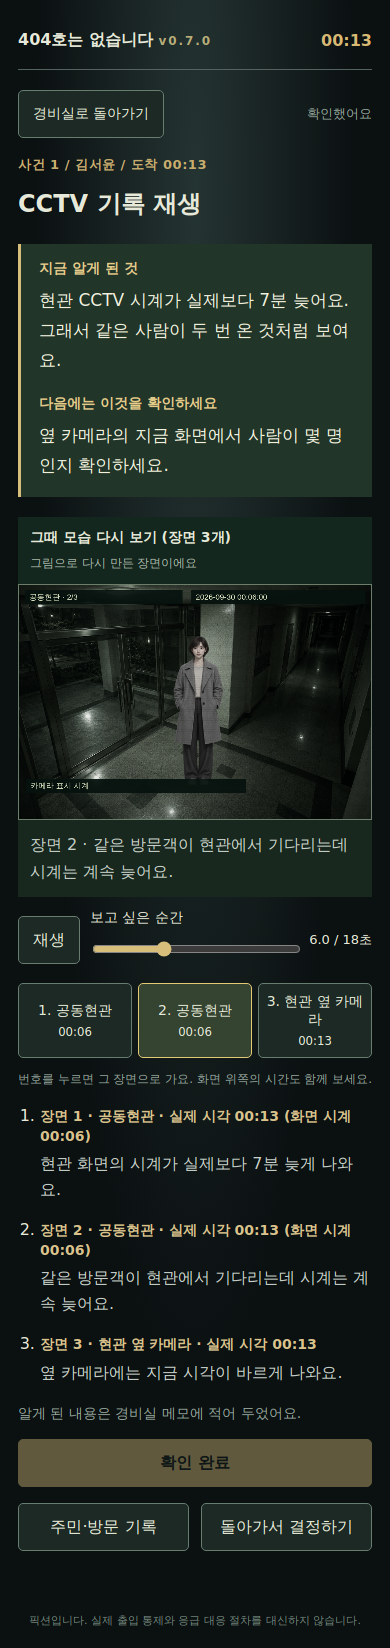
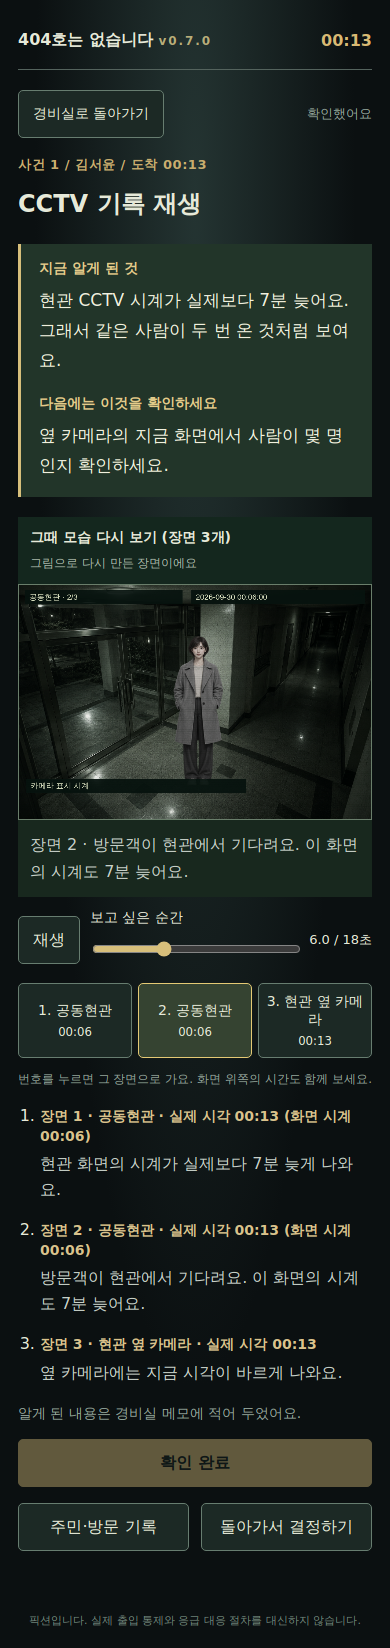
v0.7.0: reviewed plain-language text, placeholder fill, docs
- apply 76 copy-review fixes (answer leaks in CCTV notes, wrong record
  labels, awkward call lines); A098 walk-in wording
- fillDeep(): every {name}/{unit} filled across the whole case
- all-cases asserts no raw placeholder is ever shown
- CHANGELOG-0.7.0, CODE_GUIDE, WRITING_GUIDE, CCTV angle image spec

Claude-Session: https://claude.ai/code/session_01FGAUvVNs8BW1MSHvwbK7z4

diff --git a/404호는 없습니다/room404/dist/game.js b/404호는 없습니다/room404/dist/game.js
@@ -8,7 +8,9 @@ function clearReplay(){replayGeneration++;if(replayCleanup){replayCleanup();repl
 function show(screen){if(screen!=='investigation'){clearReplay();stopVoice()}['home','game','investigation','feedback','result'].forEach(id=>$(id).hidden=id!==screen);window.scrollTo(0,0)}
 function storageGet(key){try{return JSON.parse(localStorage.getItem(key))}catch{return null}}
 function save(){try{localStorage.setItem(ACTIVE,JSON.stringify(run))}catch{$('storageNotice').hidden=false}}
-function current(){const p=run.cases[run.index],original=visitors.find(v=>v.id===p.visitor),a=anomalies.find(a=>a.id===p.anomaly),pack=scenarios.find(s=>s.id===a.id);const v={...original,unit:pack.unitOverride||original.unit,role:pack.role};v.claim=fill(pack.claim,v);return {v,a,pack}}
+// Returns the case with every {name}/{unit} placeholder filled, so no text field can show a raw placeholder.
+function current(){const p=run.cases[run.index],original=visitors.find(v=>v.id===p.visitor),a=anomalies.find(a=>a.id===p.anomaly),raw=scenarios.find(s=>s.id===a.id);const v={...original,unit:raw.unitOverride||original.unit,role:raw.role};const pack=fillDeep(raw,v);v.claim=pack.claim;return {v,a,pack}}
+function fillDeep(x,v){return typeof x==='string'?fill(x,v):Array.isArray(x)?x.map(y=>fillDeep(y,v)):x&&typeof x==='object'?Object.fromEntries(Object.entries(x).map(([k,y])=>[k,fillDeep(y,v)])):x}
 function fill(s,v){return String(s).replaceAll('{name}',v.name).replaceAll('{unit}',v.unit)}
 function sourceTime(minutes=0){return shiftedTime(TIMES[run.index],minutes)}
 function log(title,text){const p=document.createElement('p'),b=document.createElement('strong');b.textContent=title+' — ';p.append(b,document.createTextNode(text));$('evidence').append(p)}

diff --git a/404호는 없습니다/docs/CODE_GUIDE.md b/404호는 없습니다/docs/CODE_GUIDE.md
@@ -2,7 +2,7 @@
 
 코드 구조를 섹션별로 정리합니다. **코드를 바꾸면 해당 섹션도 함께 고칩니다.**
 
-- 기준 버전: v0.6.1 (2026-09-30)
+- 기준 버전: v0.7.0 (2026-09-30)
 - 코드 위치: `room404/`
 - 빌드 과정 없이 `room404/dist/` 폴더를 그대로 웹 서버에 올리면 실행됩니다.
 
@@ -18,6 +18,7 @@ room404/
 │  ├─ game.js             화면 제어·조사 도구·저장·결과 카드
 │  ├─ engine.js           규칙: 사건 선택·판정·결말·저장 검증
 │  ├─ replay.js           CCTV 재현 (canvas 애니메이션)
+│  ├─ voice.js            전화 목소리 (기기 내장 한국어 음성)
 │  ├─ sw.js               오프라인 캐시 (서비스워커)
 │  ├─ manifest.webmanifest PWA 설정
 │  ├─ data/               게임 데이터 (JSON)
@@ -72,11 +73,12 @@ home ──시작──▶ game ◀──돌아가기── investigation
 | 부분 | 설명 |
 |---|---|
 | `boot()` | JSON 3개를 불러와 개수(각 100개)를 검증하고, 저장된 근무를 복원합니다. 실패하면 "다시 불러오기" 버튼을 보여 줍니다. |
-| `current()` | 지금 사건의 방문객(`v`), 이상 징후(`a`), 시나리오(`pack`)를 합칩니다. `pack.unitOverride`가 있으면 방문 호수를 덮어씁니다. |
+| `current()` | 지금 사건의 방문객(`v`), 이상 징후(`a`), 시나리오(`pack`)를 합칩니다. `pack.unitOverride`가 있으면 방문 호수를 덮어씁니다. `fillDeep()`이 사건 전체의 `{name}`, `{unit}`을 한 번에 채웁니다. |
 | `render()` | `run.screen`에 따라 화면을 그립니다. |
 | `evidence()`, `timeline()` | 경비실 화면의 "다음 할 일"과 사건 타임라인 |
 | `inspect(tool)`, `verify()`, `renderTool()` | 조사 화면을 엽니다. **열기만 해서는 확인 처리되지 않습니다.** `readTool()`(아래쪽 주 버튼)을 눌러야 `run.seen`에 기록됩니다. |
-| `documentView()`, `transcript()` | 기록 비교 화면과 통화 기록 화면 |
+| `documentView()`, `mountBooks()` | 관리실 기록부. 펼치기 전에는 표지를 보여 주고, 펼치면 4장을 넘겨 봅니다: ① 오늘 밤 방문 기록(`bookEntries()`가 날짜와 사건으로 앞서 온 3명을 고정 생성) ② 이 사람이 말한 것 ③ 관리실 기록 ④ 나란히 비교. 버튼, 밀기(40px 이상), 좌우 화살표로 넘깁니다. |
+| `transcript()`, `callLines()`, `playCall()` | 통화 화면. `call.dialogue`(첫 통화)나 `call.verifyDialogue`(한 번 더 확인)를 대본으로 보여 주고, 버튼을 누르면 `voice.js`로 읽습니다. 지금 읽는 줄에 `.speaking`이 붙습니다. |
 | `clueFor(tool)` | 도구별로 알게 된 내용. 사건의 핵심 채널(`a.channel`)이면 `plain.what`을 보여 줍니다. |
 | `share()` | 1080×1350 결과 카드를 canvas로 만듭니다. 공유가 되면 OS 공유 창을, 안 되면 다운로드 링크를 띄웁니다. |
 | `offline()` | 서비스워커를 등록합니다. Capacitor 앱 안에서는 건너뜁니다(이미 대응됨). |
@@ -84,6 +86,14 @@ home ──시작──▶ game ◀──돌아가기── investigation
 - **저장 키**: `404_active_v2`는 진행 중인 근무, `404_last_run`은 마지막 결과입니다. 저장에 실패하면 경고 문구를 띄웁니다.
 - **도구 이름**: 내부 키 `CCTV`, `명부`, `통화`, `재확인`은 유지하고, 화면 이름만 `TOOL_NAMES`로 바꿉니다.
 - **초상**: `person(v)`는 `assets/visitors.png`(4명이 가로로 배치된 시트)에서 `(번호-1) % 4`번째 인물을 잘라 씁니다. 방문객 100명이 4가지 그림을 돌려 씁니다.
+
+## 4-1. 전화 목소리 (voice.js)
+
+- `playDialogue(lines, onLine)`: `[{who, text}]`를 차례로 읽습니다. 줄 사이에 0.25초 쉽니다. `stopVoice()`로 멈춥니다. 조사 화면을 떠나면 `show()`가 자동으로 멈춥니다.
+- 음성 엔진: 웹은 `speechSynthesis`(ko-KR 음성 우선), 앱은 Capacitor `TextToSpeech` 플러그인(`@capacitor-community/text-to-speech`)입니다. Android 웹뷰에는 speechSynthesis가 없으므로 **앱으로 만들 때 이 플러그인을 꼭 설치**해야 합니다.
+- `SPEAKERS`: 말하는 사람별 목소리 높이(pitch)와 빠르기(rate)입니다. 경비원, 주민, 관리실, 방문객, 가족, 회사 직원, 자동 응답, 모르는 사람이 있습니다. 대본의 `who`는 이 목록 안에서만 씁니다.
+- 소리 켜기/끄기는 `localStorage['404_sound']`에 저장합니다.
+- 나중에 녹음 파일로 바꾸려면 `speakLine()`만 오디오 재생으로 바꾸면 됩니다. 대본 구조는 그대로 씁니다.
 
 ## 5. CCTV 재현 (replay.js)
 
@@ -112,11 +122,13 @@ home ──시작──▶ game ◀──돌아가기── investigation
 |---|---|---|
 | `visitors.json` | 100 | `id`(V001~), `name`, `unit`(호수), `role`, `claim` |
 | `anomalies.json` | 100 | **정답의 기준**. `safe`(들여보내도 되는지), `channel`(핵심 단서가 있는 도구), `category` |
-| `scenarios.json` | 100 | 사건별 장면 3개, 서류(`document`), 통화(`call`), 쉬운 설명(`plain.what/check/confirmed/decision`), `recordCode` |
+| `scenarios.json` | 100 | 사건별 장면 3개, 서류(`document`), 통화(`call` — `dialogue`, `verifyDialogue` 대본 포함), 쉬운 설명(`plain.what/check/confirmed/decision`), `recordCode` |
 | `endings.json` | 30 | 결말 설계 목록. 실제 구현은 6개 (`implemented_in_prototype`) |
 
 - `scenarios.json`의 `safe`, `channel`, `clue`, `verification`은 `anomalies.json`과 같아야 합니다. 테스트(`scenarios.test.mjs`)가 검사합니다.
-- 문구의 `{name}`, `{unit}`은 `fill()`이 방문객 정보로 바꿉니다.
+- 문구의 `{name}`, `{unit}`은 `fillDeep()`이 방문객 정보로 바꿉니다.
+- **화면 문구를 고칠 때는 `docs/WRITING_GUIDE.md`를 따릅니다.** 해요체, 짧은 문장, 어려운 말 금지, 조사 전 정답 노출 금지가 핵심입니다. `call.reply`, `plain.confirmed`, `verificationDetail`은 항상 같은 문장이어야 합니다(테스트가 검사).
+- 화면에 보이지 않는 칸: `clue`, `verification`(원래 단서), `question`(이전 버전의 질문), `plain.decision`(현재 미사용)
 
 ## 7. 그림 (dist/assets)
 
@@ -133,7 +145,7 @@ home ──시작──▶ game ◀──돌아가기── investigation
 ## 8. 오프라인 (sw.js)
 
 - 설치할 때 `FILES` 목록 전체를 캐시합니다. 이후에는 캐시를 먼저 쓰고, 없으면 네트워크를 씁니다.
-- **파일을 추가하거나 수정하면 `CACHE` 이름(`room404-v0.6.1`)을 올려야** 사용자에게 새 파일이 전달됩니다. 새 파일은 `FILES`에도 추가합니다.
+- **파일을 추가하거나 수정하면 `CACHE` 이름(`room404-v0.7.0`)을 올려야** 사용자에게 새 파일이 전달됩니다. 새 파일은 `FILES`에도 추가합니다.
 - 앱(Capacitor) 안에서는 서비스워커를 쓰지 않습니다.
 
 ## 9. 테스트 (tests)
@@ -149,7 +161,8 @@ npm run test:all-cases   # 사건 100개 × 장면 3개 전수 검사
 - `test:ui`를 먼저 실행해야 합니다. `@sparticuz/chromium`에서 브라우저를 `/tmp/room404-chromium`으로 풀기 때문입니다. 다른 OS에서는 `CHROMIUM_EXECUTABLE`을 지정합니다.
 - 두 브라우저 검사는 `test-artifacts/`의 결과 JSON과 스크린샷을 덮어씁니다.
 - 스크린샷의 한글이 네모로 보이면 한국어 글꼴을 설치합니다(예: `fonts-noto-cjk`).
-- 마지막 결과(2026-09-30): 11/11, 9/9, 100/100 모두 통과
+- 브라우저 검사는 `speechSynthesis`를 가짜로 바꿔 끼워 통화 음성을 검사합니다(읽은 줄 수, ko-KR, 사람마다 다른 높이, 소리 끄기).
+- 마지막 결과(2026-09-30, v0.7.0): 11/11, 9/9, 100/100 모두 통과
 
 ## 10. 주의사항
 
@@ -165,11 +178,15 @@ npm run test:all-cases   # 사건 100개 × 장면 3개 전수 검사
 | 높음 | Android 뒤로가기 처리 | 앱에서 뒤로가기를 누르면 바로 종료됩니다. 조사 화면에서는 경비실로 돌아가야 합니다. |
 | 높음 | 결과 이미지 저장을 앱 방식으로 | Android 웹뷰에서는 파일 공유와 blob 다운로드가 동작하지 않을 수 있습니다. Capacitor Share/Filesystem을 씁니다. |
 | 중간 | 저장을 Capacitor Preferences로 이중화 | 웹뷰의 localStorage는 OS가 정리할 때 지워질 수 있습니다. |
+| 높음 | Android 앱에 TextToSpeech 플러그인 설치 | 없으면 앱에서 전화 목소리가 나오지 않습니다. |
+| 높음 | CCTV 여러 각도 보기 | 사용자가 배경 그림을 만드는 중입니다. 규격은 `docs/CCTV_ANGLE_IMAGE_SPEC.md` |
 | 중간 | 걷기 모션을 다른 방문객으로 확대 | 지금은 V001만 적용되어 있습니다. |
-| 낮음 | 경비실 첫 안내 문구 말투 통일 | "확인하십시오"만 딱딱한 말투로 남아 있습니다. |
+| 중간 | 녹음 목소리로 교체 | 지금은 기기 내장 음성입니다. 대본 구조는 그대로 두고 오디오 파일로 바꿀 수 있습니다. |
 | 낮음 | 결말 24개 추가 구현 | `endings.json` 30개 중 6개만 구현되어 있습니다. |
 
 ### 완료한 개선
+
+- v0.7.0: 모든 대사를 쉬운 말로 다시 썼고, 전화 목소리와 넘기는 기록부를 추가했습니다. 경비실 첫 안내 말투도 통일했습니다.
 
 - v0.6.1: 조사 도구 버튼의 스크린리더 이름을 화면 이름과 일치시켰습니다.
 - v0.6.1: `all-cases` 테스트의 브라우저 경로 하드코딩을 제거했습니다.

diff --git a/404호는 없습니다/docs/WRITING_GUIDE.md b/404호는 없습니다/docs/WRITING_GUIDE.md
@@ -1,0 +1,79 @@
+# 404호는 없습니다 — 대사 다시 쓰기 지침
+
+게임: 아파트 야간 경비원이 밤에 찾아온 방문객을 들여보낼지 정하는 한국어 추리 게임.
+플레이어는 ① CCTV 보기 ② 주민·방문 기록 보기 ③ 집에 전화하기 ④ 한 번 더 확인하기를 한 뒤
+"들여보내기" 또는 "문 열지 않기"를 고른다.
+
+목표: **초등학교 고학년도 한 번 읽고 바로 이해할 수 있는 말**. 절대 어려우면 안 된다.
+
+## 문장 규칙
+1. 해요체만 쓴다. (예: 들어갔어요, 확인하세요). 경비원 대사도 해요체.
+2. 한 문장에 한 가지 사실. 한 문장은 되도록 30자 이내, 최대 40자.
+3. 누가 무엇을 했는지 분명히 쓴다. 주어를 빼서 헷갈리게 하지 않는다.
+4. 쉬운 일상어만. 아래 말은 쓰지 않는다(괄호 안처럼 바꾼다):
+   승인(허락), 대조(비교해 보기), 원본(관리실에 있는 기록), 세대(집), 등록 세대(그 집),
+   신원(누구인지), 진위(진짜인지), 확정(확실히 알기), 표시 정보(화면에 나온 글자),
+   제출(보여 준), 발급(새로 만들어 줌), 반송(돌려보냄), 인원(사람 수), 동일(같은),
+   상이(다른), 해당(그), 미확인(아직 확인 못 함), 무단(허락 없이), 경유(거쳐서), 위조(가짜로 만든),
+   불일치(서로 다름), 방문 대상(가려는 집), 연락처(전화번호).
+5. 명사로 끝나는 메모체(예: "사람 확인", "보여 줌하고")를 쓰지 않는다. 모두 완전한 문장.
+6. 조사·띄어쓰기를 정확히. "돌려보냄된", "보여 줌한" 같은 틀린 말은 반드시 고친다.
+7. 시각은 "10분 전", "지금"처럼 상대적으로 쓴다. 숫자 시각(00:13 등)은 쓰지 않는다. 화면이 따로 보여 준다.
+8. 느낌표, 영어, 한자, 줄임말을 쓰지 않는다. (CCTV는 그대로 쓴다.)
+9. {name}(방문객 이름), {unit}(가려는 호수)은 그대로 써도 된다. 게임이 채운다. 중괄호 모양 그대로 둔다.
+
+## 흐름 규칙 (가장 중요)
+- 무엇이 이상한지 → 왜 이상한지 → 무엇을 더 확인할지, 이 순서로 이어지게 쓴다.
+- **정답을 미리 말하지 않는다.** 아래 '보이는 때'를 지킨다.
+- 사건의 뜻, 정답(safe), 핵심 단서가 있는 도구(channel)는 절대 바꾸지 않는다. 표현만 쉽게 바꾸고, 필요하면 구체적으로 풀어 쓴다.
+- 들여보내도 되는 사건(safe=true)은 "처음엔 이상해 보이지만 확인하면 괜찮은 이유"가 분명해야 한다.
+- 들여보내면 안 되는 사건(safe=false)은 "확인해도 풀리지 않는 이상한 점"이 분명해야 한다.
+
+## 필드별 뜻과 보이는 때
+
+| 필드 | 보이는 때 | 쓰는 법 |
+|---|---|---|
+| claim | 처음부터 (방문객이 인터폰에 하는 말) | 방문객의 자연스러운 한두 문장. 사건마다 조금씩 다르게. 이상한 점이나 정답을 말하지 않는다. role(방문 구분)과 맞게. |
+| scenes[i].note | CCTV를 연 뒤 | 그 장면에 보이는 것 한 문장. 장면의 location/action/mode/prop와 맞게. 6자 이상. |
+| document.field | 기록을 연 뒤 | 비교하는 항목 이름. 짧은 명사구 (예: "가려는 집", "택배 번호", "출입 카드"). |
+| document.left | 기록을 연 뒤 | 방문객이 말하거나 보여 준 내용. 한 문장. |
+| document.right | 기록을 연 뒤 | 관리실 기록에 적힌 내용. 한 문장. left와 달라야 한다. |
+| document.source | 기록을 연 뒤 | 관리실 기록의 이름 (예: "관리실 방문 기록", "택배 보관 기록"). 짧게. |
+| call.source | 전화를 연 뒤 | 어디로 전화했는지 (예: "관리실에 적힌 그 집 번호"). |
+| call.state | 전화를 연 뒤 | 통화 상태 한마디 (예: "연결됐어요", "답을 기다려요", "말이 이상해요"). 짧게. |
+| call.line | 전화를 연 뒤 | 통화에서 들은 내용 요약 한 문장. |
+| call.detail | 전화를 연 뒤 | 경비원 메모 한 문장. 다음에 무엇을 볼지. |
+| call.dialogue | 전화를 연 뒤 (**음성으로 읽힘**) | 첫 통화 대화 3~5줄. [{"who":..., "text":...}]. 첫 줄은 경비원. |
+| call.verifySource | 한 번 더 확인할 때 | 다시 확인한 곳 (예: "다른 카메라와 그 집 주민"). |
+| call.reply | 한 번 더 확인한 뒤 | plain.confirmed와 같은 문장으로 둔다. |
+| call.verifyDialogue | 한 번 더 확인할 때 (**음성으로 읽힘**) | 확인 통화 2~4줄. 마지막 줄에서 plain.confirmed 내용이 드러난다. |
+| plain.what | 핵심 도구를 확인한 뒤 | 무엇이 이상한지 1~2문장. |
+| plain.check | 핵심 도구를 확인한 뒤 | 다음에 무엇을 확인할지 1문장. "~하세요"로 끝. |
+| plain.confirmed | 한 번 더 확인한 뒤 | 확인해서 알게 된 사실 1~2문장. 판단 근거가 분명하게. |
+| plain.decision | 결과 화면용 | safe=true면 "들여보내도 돼요.", false면 "문을 열어 주면 안 돼요."에 이유 한마디를 붙인다. 예: "문을 열어 주면 안 돼요. 먼저 들어간 사람이 아직 안에 있어요." |
+
+### 통화 대사 규칙 (음성)
+- who는 다음 중 하나만: "경비원", "주민", "관리실", "방문객", "가족", "회사 직원", "자동 응답", "모르는 사람".
+- 소리 내어 읽기 좋게: 괄호, 기호(·, /, →), 숫자 나열을 넣지 않는다. 번호는 "일 층"처럼 쓰지 말고 그냥 "101호"처럼 써도 된다.
+- 한 줄은 한두 문장. 실제 전화처럼 자연스럽게.
+- 첫 통화(dialogue)는 핵심 단서가 전화(channel=통화)인 사건이면 그 이상한 점이 대화에 드러나야 한다. 그 외 사건에서는 결론 없이 "확인해 볼게요" 정도로 끝난다(정답 금지).
+- 확인 통화(verifyDialogue)는 plain.confirmed의 내용을 대화로 보여 준다.
+
+## 출력 형식
+입력 파일의 각 사건에 대해 아래 JSON 객체를 만든다. **이 필드만** 넣는다. 다른 필드(id 제외)는 넣지 않는다.
+
+```json
+{
+  "id": "A001",
+  "claim": "...",
+  "scenes": [{"note": "..."}, {"note": "..."}, {"note": "..."}],
+  "document": {"field": "...", "left": "...", "right": "...", "source": "..."},
+  "call": {"source": "...", "state": "...", "line": "...", "detail": "...", "verifySource": "...", "reply": "...",
+           "dialogue": [{"who": "경비원", "text": "..."}],
+           "verifyDialogue": [{"who": "경비원", "text": "..."}]},
+  "plain": {"what": "...", "check": "...", "confirmed": "...", "decision": "..."}
+}
+```
+- 입력의 document에 "claim" 키가 있으면 출력 document에도 "claim"을 넣는다(방문객이 한 말과 같게, 쉬운 말로).
+- call.reply는 plain.confirmed와 글자까지 같게.
+- 결과는 JSON 배열 하나로 파일에 저장한다. UTF-8, 한글 그대로(유니코드 이스케이프 금지).

diff --git a/404호는 없습니다/room404/CHANGELOG-0.7.0.md b/404호는 없습니다/room404/CHANGELOG-0.7.0.md
@@ -1,0 +1,35 @@
+# 0.7.0 — 쉬운 대사, 전화 목소리, 넘기는 기록부
+
+2026-09-30
+
+## 모든 대사를 쉬운 말로 다시 씀
+- 100개 사건의 화면 문구를 모두 다시 썼다. 방문객의 말, CCTV 장면 설명, 기록부, 통화, "지금 알게 된 것", "다음에는 이것을 확인하세요", 확인 결과가 대상이다.
+- 기준은 해요체, 한 문장에 한 가지 사실, 되도록 30자 안팎이다. "승인·대조·원본·세대·신원·진위" 같은 어려운 말은 쓰지 않는다. 자세한 기준은 `docs/WRITING_GUIDE.md`에 있다.
+- 틀린 말을 고쳤다(예: "돌려보냄된", "보여 줌하고"). 영어 약호(R-0000, D-202 등)는 쉬운 말로 풀었다.
+- 조사 전에 답이 드러나지 않게 했다. 방문객의 말과 첫 통화, CCTV 설명에 결론이 보이지 않는지 따로 검토해 고쳤다(76곳).
+- 정답(`safe`), 핵심 도구(`channel`), 원래 단서(`clue`, `verification`), 장면 동작은 바꾸지 않았다.
+- 화면 문구도 쉽게 바꿨다. 예: "판단이 맞았습니다" → "잘 판단했어요. 맞았어요", "정답 8건 · 위험 허용" → "8명 중 8명 맞힘 · 위험한 사람을 들여보냄", "오프라인 준비 완료" → "인터넷 없이도 할 수 있어요".
+- CCTV 장소 이름을 바꿨다. "승강기"는 "엘리베이터", "계단실"은 "계단", "현관 보조 카메라"는 "현관 옆 카메라".
+
+## 전화: 실제 목소리로 듣기
+- 각 사건에 실제 통화 대본을 넣었다. 첫 통화(`call.dialogue`)는 3~5줄, 한 번 더 확인하는 통화(`call.verifyDialogue`)는 2~4줄이다.
+- '전화 걸기'를 누르면 휴대폰에 들어 있는 한국어 음성으로 통화를 읽어 준다(`voice.js`). 지금 말하는 줄은 화면에 표시된다.
+- 경비원, 주민, 관리실, 모르는 사람 등은 목소리 높이와 빠르기를 다르게 했다.
+- '통화 다시 듣기', '멈추기', '소리 켜짐/꺼짐' 버튼이 있다. 소리 설정은 기기에 저장된다(`404_sound`).
+- 웹에서는 speechSynthesis를 쓴다. 앱(Capacitor)에서는 TextToSpeech 플러그인을 설치하면 그것을 쓴다. 음성이 없는 기기에서는 글로 읽으라는 안내가 나온다.
+
+## 기록부: 한 장씩 넘기기
+- '기록부 펼치기'를 누르면 4장짜리 관리실 기록부가 열린다.
+  1. 오늘 밤 방문 기록 (앞서 온 사람 3명과 지금 온 사람)
+  2. 이 사람이 말하거나 보여 준 것
+  3. 관리실에 적혀 있는 것
+  4. 두 기록을 나란히 보기
+- 버튼, 옆으로 밀기, 키보드 화살표로 넘긴다. 넘길 때 종이가 넘어가는 효과가 있고, 동작 줄이기 설정을 켜 두면 효과가 꺼진다.
+
+## 기타
+- 사건 문구의 `{name}`, `{unit}`이 어느 칸에서도 그대로 보이지 않도록 사건 전체에 한 번에 채운다(`fillDeep`).
+- 서비스워커 캐시 `room404-v0.7.0`. `voice.js`를 캐시 목록에 추가했다.
+- 검사를 추가했다: 기록부 넘기기(버튼, 밀기, 키보드), 통화 음성(줄 수, ko-KR, 사람마다 다른 목소리, 소리 끄기), 모든 사건에서 `{name}`/`{unit}`이 남지 않는지.
+
+## CCTV 여러 각도 보기
+- 사용자가 새 각도 배경 그림을 만드는 중이다. 그림이 준비되면 그에 맞춰 넣는다. 필요한 그림 규격은 `docs/CCTV_ANGLE_IMAGE_SPEC.md`에 있다.

diff --git a/404호는 없습니다/docs/CCTV_ANGLE_IMAGE_SPEC.md b/404호는 없습니다/docs/CCTV_ANGLE_IMAGE_SPEC.md
@@ -1,0 +1,41 @@
+# CCTV 여러 각도 보기 — 필요한 그림 규격
+
+CCTV 화면에서 같은 순간을 여러 카메라로 바꿔 볼 수 있게 하려면 아래 그림이 필요합니다. 이 규격에 맞춰 만들어 주시면 바로 게임에 넣을 수 있습니다.
+
+## 1. 배경 그림 (필수)
+
+게임에 나오는 장소는 7곳입니다. 지금은 장소마다 한 방향 그림만 있습니다.
+
+| 장소 (코드 이름) | 지금 있는 그림 | 새로 필요한 각도 |
+|---|---|---|
+| 공동현관 (`lobby`) | 정면 (`cctv-lobby.png`) | ② 옆에서 본 모습, ③ 천장에서 내려다본 모습 |
+| 안쪽 복도 (`hall`) | 정면 (`apartment-scenes.png` 가운데 칸) | ②, ③ |
+| 엘리베이터 (`elevator`) | 정면 (같은 파일 왼쪽 칸) | ② 엘리베이터 안 카메라, ③ 엘리베이터 앞 복도 |
+| 계단 (`stairs`) | 정면 (같은 파일 오른쪽 칸) | ② 아래층에서 올려다본 모습, ③ 위층에서 내려다본 모습 |
+| 주차장 (`parking`) | 정면 (`detail-scenes.png` 왼쪽 칸) | ②, ③ |
+| 집 현관문 (`door`) | 문 열림/닫힘 (`detail-scenes.png`) | ② 복도 끝에서 문을 본 모습 |
+| 현관 옆 카메라 (`lobbySide`) | 정면 그림을 잘라 씀 | 공동현관 ②를 쓰면 됩니다 |
+
+**모든 배경 그림 공통**
+- 크기: **1536×1024 픽셀(가로:세로 = 3:2)**, PNG
+- **사람이 없는 빈 장소**로 그려 주세요. 인물은 게임이 따로 그립니다.
+- 지금 그림과 같은 톤: 밤, 어두운 아파트, 흑백에 가까운 초록빛 CCTV 느낌
+- **글자, 날짜, 시간을 넣지 마세요.** 게임이 화면 위에 표시합니다.
+- 같은 장소는 다른 각도에서도 벽, 문, 조명 위치가 서로 맞아야 합니다. 그래야 "같은 곳을 다른 카메라로 본다"는 느낌이 납니다.
+- 사람이 서 있을 **바닥 높이**를 알려 주시면 좋습니다. 예: "바닥은 그림 아래에서 10% 위치". 모르셔도 제가 그림을 보고 맞춥니다.
+
+**파일 이름 예시**: `lobby-side.png`, `lobby-top.png`, `hall-side.png`, `hall-top.png` …
+
+## 2. 인물 그림 (있으면 더 좋음)
+
+옆이나 위에서 본 카메라에는 사람도 그 방향에서 본 모습이어야 자연스럽습니다.
+
+- 지금 있는 것: 방문객 4명의 정면 그림, V001의 옆으로 걷는 8장면
+- 있으면 좋은 것: 4명 각각의 **옆모습 걷기**와 **뒷모습** (V001과 같은 규격: 한 장면 384×512, 가로 4 × 세로 2, 투명 배경 PNG)
+- 인물 그림이 없으면 옆 각도에서는 지금 그림을 좌우로 뒤집거나 작게 그려서 대신합니다.
+
+## 3. 게임에서 쓰는 방법 (계획)
+
+- CCTV 화면에 **카메라 버튼(① 정면 ② 옆 ③ 위)** 을 추가합니다. 누르면 같은 시각을 다른 각도로 보여 줍니다. 재생 위치는 그대로 유지됩니다.
+- 그림 없이도 가능한 **"가까이 보기(확대)"** 를 함께 넣습니다.
+- 사건마다 "다른 각도에서만 보이는 단서"를 넣을 수 있습니다. 예: 정면에서는 두 사람처럼 보이지만 위에서 보면 한 사람. 이 부분은 그림을 받은 뒤 사건별로 정합니다.

diff --git a/404호는 없습니다/docs/WORKLOG.md b/404호는 없습니다/docs/WORKLOG.md
@@ -48,3 +48,14 @@
 - 소규모 개선: 도구 버튼의 스크린리더 이름을 수정하고, all-cases 테스트의 브라우저 경로 하드코딩을 없앴습니다.
 - `docs/CODE_GUIDE.md`를 실제 코드 기준으로 작성했습니다.
 - 다음 할 일: Android(Capacitor) 플랫폼 추가 → 뒤로가기·결과 이미지 저장 대응 → GitHub Actions로 AAB 빌드.
+
+### v0.7.0 — 쉬운 대사, 전화 목소리, 넘기는 기록부
+- 요청 1: "모든 대사를 사용자가 알기 쉬운 흐름으로, 절대 어렵지 않게"
+  - 작성 기준을 만들었습니다(`docs/WRITING_GUIDE.md`). 100개 사건을 5묶음으로 나눠 다시 쓰고, 별도로 전수 검토해 76곳을 더 고쳤습니다.
+  - 정답, 핵심 도구, 장면 동작은 그대로입니다. 조사 전에 답이 보이지 않는지도 검토했습니다.
+- 요청 2: CCTV 다각도 / 전화 실제 음성 / 명부 넘기기
+  - 전화: 사용자가 "폰 내장 음성 먼저"를 골랐습니다. 사건마다 통화 대본을 넣고 기기 음성으로 읽게 했습니다. 사람마다 목소리가 다르고, 다시 듣기·멈추기·소리 끄기를 지원합니다.
+  - 명부: 4장짜리 기록부를 버튼, 밀기, 화살표로 넘깁니다.
+  - CCTV 다각도: 사용자가 새 이미지를 만드는 중이라 그에 맞춰 하기로 했습니다. 그림 규격을 `docs/CCTV_ANGLE_IMAGE_SPEC.md`에 적었습니다.
+- 검사: 엔진 11/11, 브라우저 9/9(기록부·음성 검사 추가), 전수 100/100 통과.
+- 남은 확인: 실제 휴대폰에서 음성 품질 확인(기기마다 다름). 앱으로 만들 때는 TextToSpeech 플러그인이 필요합니다.

diff --git a/404호는 없습니다/README.md b/404호는 없습니다/README.md
@@ -7,7 +7,7 @@
 | 항목 | 상태 |
 |---|---|
 | 운영 사이트 | v0.5.0 (ChatGPT Sites, 소유자 전용) |
-| 최신 작업본 | v0.6.1 — `room404/` (운영 미배포). V001 걷기 모션 적용 |
+| 최신 작업본 | v0.7.0 — `room404/` (운영 미배포). 쉬운 대사, 전화 목소리, 넘기는 기록부, V001 걷기 모션 |
 | iOS 앱 | Capacitor 8.5.2 Xcode 프로젝트 초안 (v0.2 기준, 최신 코드와 동기화 필요) |
 | Android 앱 | 아직 없음 |
 | 스토어 등록 | 아직 안 함. Google Play 먼저 진행 (앱 ID `com.musi0905.room404`, 3,300원) |
@@ -16,7 +16,7 @@
 
 | 폴더 | 내용 |
 |---|---|
-| `room404/` | 게임 소스 v0.6.0 (dist, tests, scripts, 인수인계 문서, 검사 결과) |
+| `room404/` | 게임 소스 (dist, tests, scripts, 인수인계 문서, 검사 결과) |
 | `character-motion-v1/` | V001 걷기 캐릭터 원본 자료 (v0.6.1에서 코드에 적용됨) |
 | `docs/` | 정리 문서 |
 
@@ -27,6 +27,8 @@
 | [docs/CODE_GUIDE.md](docs/CODE_GUIDE.md) | 코드 구조를 섹션별로 정리한 문서. 코드가 바뀔 때마다 함께 갱신 |
 | [docs/GOOGLE_PLAY_GUIDE.md](docs/GOOGLE_PLAY_GUIDE.md) | Google Play 출시 단계별 안내 |
 | [docs/STORE_RELEASE_PLAN.md](docs/STORE_RELEASE_PLAN.md) | 같은 코드로 App Store와 Google Play에 함께 출시하는 방법 |
+| [docs/WRITING_GUIDE.md](docs/WRITING_GUIDE.md) | 게임 문구·대사 작성 기준 (쉬운 말) |
+| [docs/CCTV_ANGLE_IMAGE_SPEC.md](docs/CCTV_ANGLE_IMAGE_SPEC.md) | CCTV 여러 각도용 그림 규격 |
 | [docs/WORKLOG.md](docs/WORKLOG.md) | 작업 기록과 남은 일 |
 
 ## 원본 자료 위치
